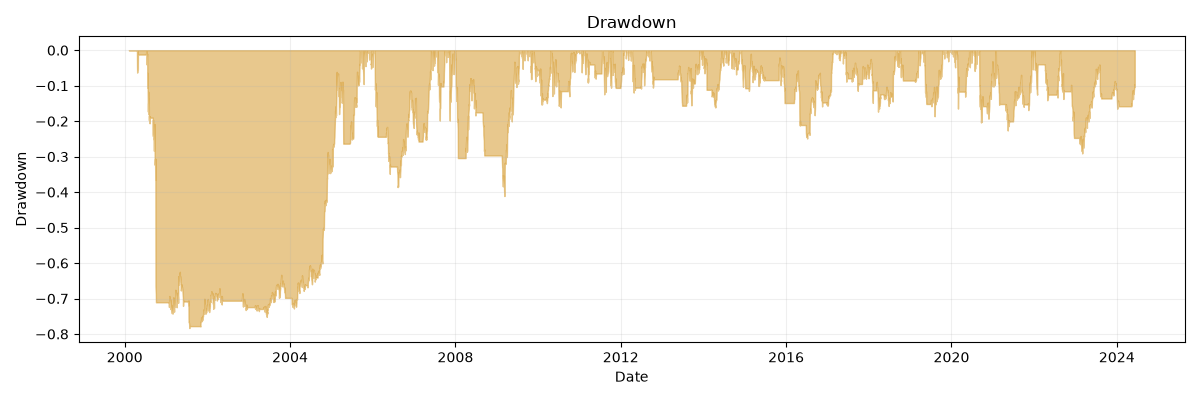
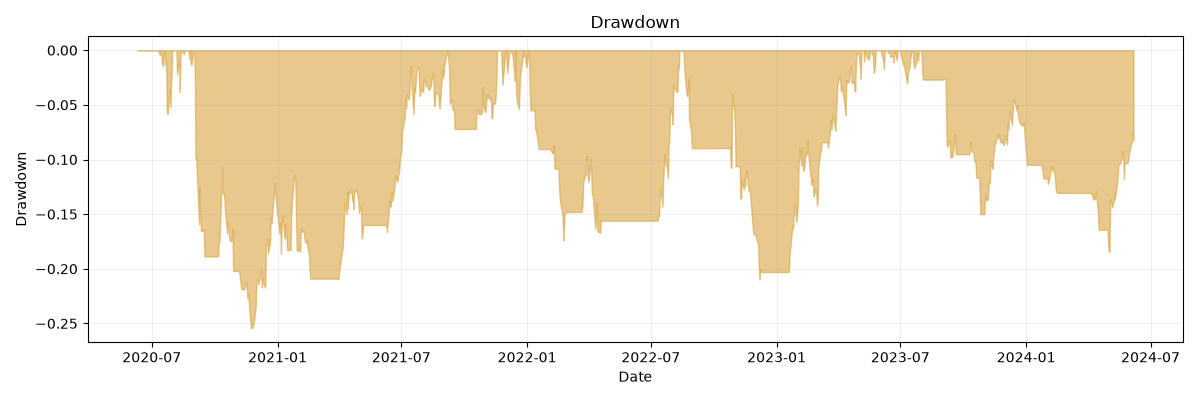
commit #22

diff --git a/templates/index.html b/templates/index.html
@@ -185,6 +185,14 @@
 
                         </div>
 
+                            <div class="input-group">
+                                <label for="strategy">strategy</label>
+
+                                <select id="strategy" name="strategy">
+                                    <option value="moving_average">moving average</option>
+                                    <option value="momentum">momentum</option>
+                                </select>
+                            </div>
 
                         <button type="submit">
                             RUN BACKTEST
@@ -217,9 +225,7 @@
                     </div>
 
                     <div class="strategy-settings">
-                        MA {{ results.short_window }}
-                        /
-                        MA {{ results.long_window }}
+                        MA {{ results.short_window }} / MA {{ results.long_window }}
                     </div>
 
                     <h2>

diff --git a/app.py b/app.py
@@ -1,7 +1,7 @@
 from flask import Flask, render_template, request
 
 from quant.data import get_data
-from quant.strategy import moving_average_strategy
+from quant.strategy import (moving_average_strategy, momentum_strategy)
 from quant.backtest import run_backtest, calculate_metrics
 
 from quant.backtest import(
@@ -18,36 +18,50 @@ def index():
         ticker = request.form["ticker"]
         start = request.form["start"]
         end = request.form["end"]
+        strategy = request.form["strategy"]
+
         short_window = int(request.form["short_window"])
         long_window = int(request.form["long_window"])
-        if short_window >= long_window:
-            raise ValueError(
-                "short MA must be smaller than long MA."
-            )
+
+        if strategy == "moving_average":
+            if short_window >= long_window:
+                raise ValueError(
+                    "short MA must be smaller than long MA."
+                )
+            
         data = get_data(
             ticker,
             start,
             end
         )
-        data = moving_average_strategy(
-            data, short_window, long_window
-        )
+
+        if strategy == "moving_average":
+            data = moving_average_strategy(data, short_window, long_window)
+        elif strategy == "momentum":
+            data = momentum_strategy(data, 20)
+
         data = run_backtest(data)
         metrics = calculate_metrics(data)
+
         chart_path = "static/performance.png"
+
         create_performance_chart(
             data, chart_path
         )
+
         drawdown_path = "static/drawdown.png"
+
         create_drawdown_chart(
             data, drawdown_path
         )
+
         results = {
             "ticker": ticker,
             "short_window": short_window,
             "long_window": long_window,
             "metrics": metrics
         }
+
     return render_template(
         "index.html",
         results=results

diff --git a/quant/strategy.py b/quant/strategy.py
@@ -14,3 +14,12 @@ def moving_average_strategy(data, short_window=20, long_window=50):
         data["Short_MA"] < data["Long_MA"], "Signal"
     ] = 0
     return data
+
+def momentum_strategy(data, window=20):
+    data = data.copy()
+    data["Momentum"] = data["Close"].pct_change(window)
+    data["Signal"] = 0
+    data.loc[
+        data["Momentum"] > 0, "Signal"
+    ] = 1
+    return data
